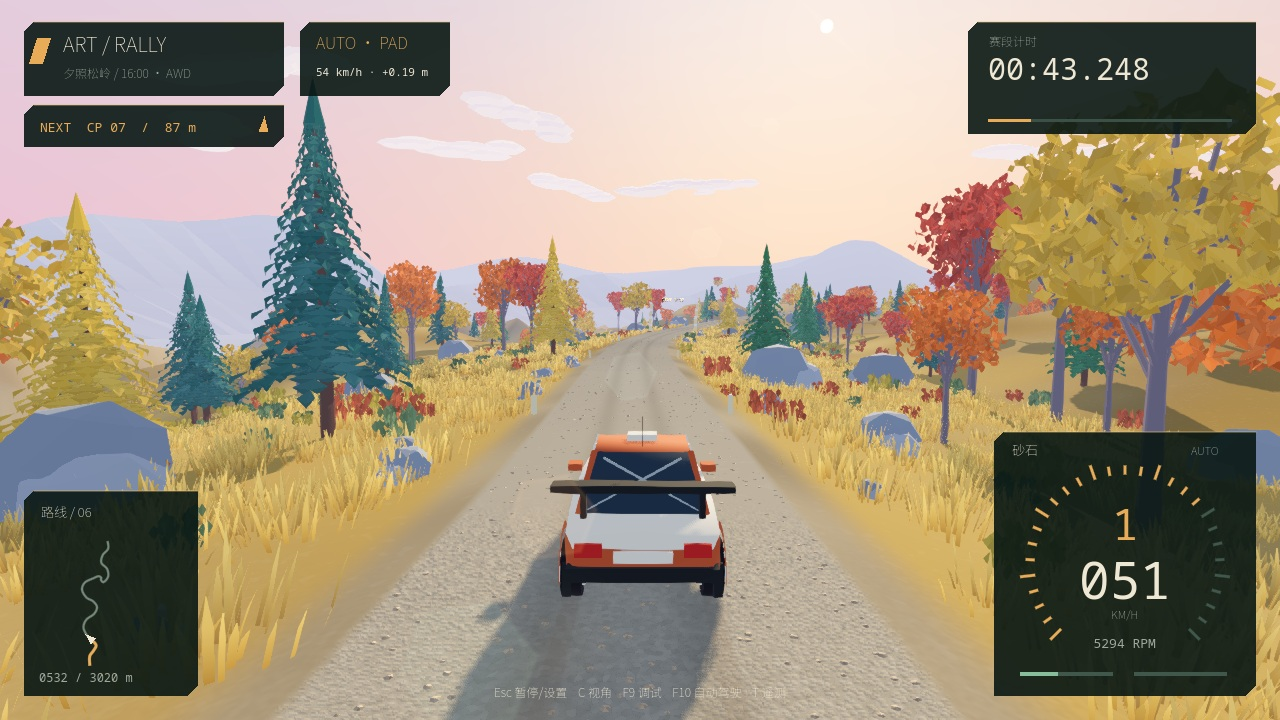
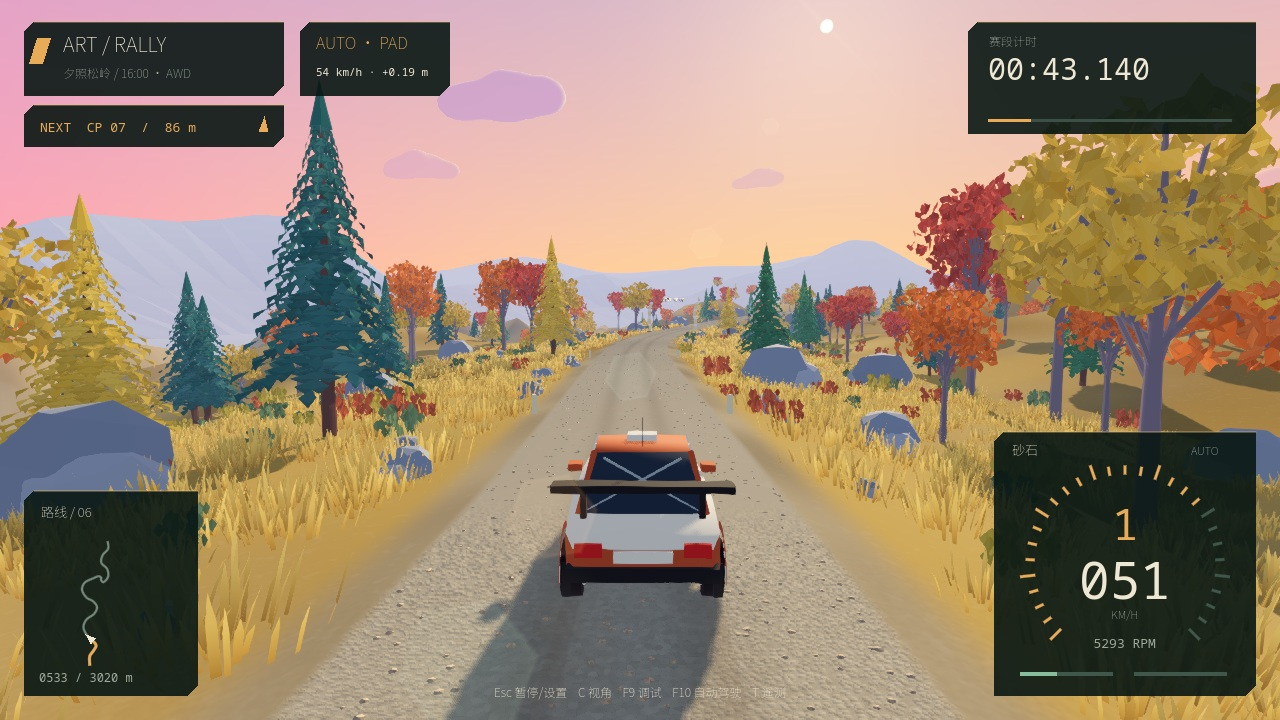
fix: align pacenote arrows and refine autumn sky and clouds

diff --git a/docs/ART_DIRECTION_AUTUMN.zh-CN.md b/docs/ART_DIRECTION_AUTUMN.zh-CN.md
@@ -9,9 +9,20 @@
 - 草丛由每簇九片增至三十二片，增加沿线密度、扩展覆盖范围，以根部赭金到叶尖浅金的颜色过渡连接地表。路肩起始位置向外调整，为加宽的草簇保留道路空间。
 - 植被统一使用轻微风动、包裹漫反射与少量内部补光；沿用 MultiMesh 空间分批、远距裁剪、简化树影和低细节开关。
 - 地形改为金色草坡，砂石偏中性灰褐，石块偏冷灰；远山降低切面明暗反差，并加入蓝紫空气透视。
-- 天空改为朝阳方向偏桃橙、背光方向偏粉紫的配色；云层更薄，保留实际世界位置与视差。太阳仍为原来的 24° 高度，光斑亮度降至原来的 24%，保留深度遮挡。
+- 天空采用朝阳方向桃金、背光方向玫粉、高空蓝紫的配色；云层稀疏且具有连续体积，保留实际世界位置与视差。太阳仍为原来的 24° 高度，光斑亮度降至原来的 24%，保留深度遮挡。
 
 主赛段与独立视觉样板共用新的几何和材质。树木、岩石的布点及碰撞仍使用原来的生成序列；草丛为视觉细节。没有修改车辆物理、轮胎、动力、赛道碰撞、检查点和成绩规则。参考图中的越野车、木屋与开放世界地形不属于本次环境风格试作。
+
+## 天空与路书二次调整
+
+对照用户参考图及 [Over the Hill 官方画廊](https://www.funselektor.com/overthehill)，本轮重点是大面积天空留白、清楚的冷暖分区和远景层次。以下是对画面的观察与本项目的实现选择，并非对方公开的着色器实现。
+
+- **造型问题：** 上一版云被压扁、按近似等距排列，每朵云的重复几何也较明显。本轮减少为最多 6 朵近云与 9 朵远云，随机调整位置与体量；使用平滑距离场融合不同大小的云瓣，生成一个连续网格，并保留略平的共同云底和圆润顶部。云沿统一风向展开，避免斜向“球串”。网格在场景生成时建立，运行时不做体积光线步进。
+- **色彩问题：** 原天空的线性 RGB 明度和宽光晕叠加，经 ACES 后显得发白。现在使用明确的 sRGB 色彩参数，由引擎转换至线性空间；将太阳方位与天空高度分别控制，缩小太阳散射范围。天空与远云共用一份调色定义，远云逐渐融入其所处方向的天空颜色。
+- **光照问题：** 云使用独立着色，直接提高或降低方向光强度不能改变它的明暗。云现在由同一太阳方向计算奶油色亮面与淡紫云底；场景环境补光从 0.68 降至 0.52，雾光能量从 0.85 降至 0.75，让树木和地面保留明暗及冷暖差。
+- **路书箭头：** 原尖角的手写坐标未对齐折线末段。现在根据末段方向生成对称箭头，普通弯指向左上/右上，急弯指向左/右。回归检查覆盖四种方向及左右镜像，实际 HUD 卡片见 [箭头预览](previews/pacenote-arrows.png)。
+
+继续接近参考图的重点是山体剪影、林冠疏密与近中远景的组织；本轮仍保留现有赛道地形与程序化植被。
 
 ## 实机截图与复现
 
@@ -23,15 +34,21 @@
 
 截图更新写入 `docs/previews/`；控制台指标写入忽略版本控制的 `logs/autumn_capture.log`。
 
+运行 `./scripts/dev.sh pacenote-render-check` 可重新生成四种实际路书卡片的组合预览。
+
 ## 验证与范围
 
-在 Apple M5、Godot 4.7.2、Metal Forward+、1280×720、60 FPS 上限下，三处短时截图采样平均分别约 59.6、59.7、59.6 FPS。截图帧约 161.5 / 193.3 / 204.3 万图元，386 / 455 / 350 draw calls，包含引擎统计的各渲染通道。这是局部采样，不等同于全赛段长跑性能验收；增加的植被几何仍需在较弱 GPU 和 Windows 上评估。
+首版秋日环境在 Apple M5、Godot 4.7.2、Metal Forward+、1280×720、60 FPS 上限下，三处短时截图采样平均分别约 59.6、59.7、59.6 FPS。本轮最终截图帧约 162.6 / 194.4 / 205.8 万图元，380 / 449 / 345 draw calls，包含引擎统计的各渲染通道。复拍期间同时运行其他检查，帧率不能作为独立性能基准；局部截图也不等同于全赛段长跑性能验收。增加的植被几何仍需在较弱 GPU 和 Windows 上评估。
 
-以下检查全部通过：
+本轮检查：
 
-- `check`：资源导入、全脚本解析、冒烟及 432 项自动检查。
+- `check`：资源导入、全脚本解析、冒烟及 442 项自动检查。
 - `autumn-capture`：9 项检查，确认生产自动驾驶、移动状态及截图输出。
 - `preview-render-check`：4 项真实 GPU 光斑开启、遮挡与部分遮挡检查。
+- `pacenote-render-check`：1 项真实 GPU 卡片输出检查，配合 `hud_test` 中的箭头方向断言及人工看图。
+
+首版秋日环境另外通过以下检查；本轮没有修改车辆、赛段规则或菜单行为，未重复执行这些检查：
+
 - `m5-render-check`：6 项真实音频、HUD、驾驶舱、暂停与窗口布局检查。
 - `stage-check`：完整赛段 4 项检查；通过 31 个检查点，240.142 秒完赛，0 次恢复。
 
